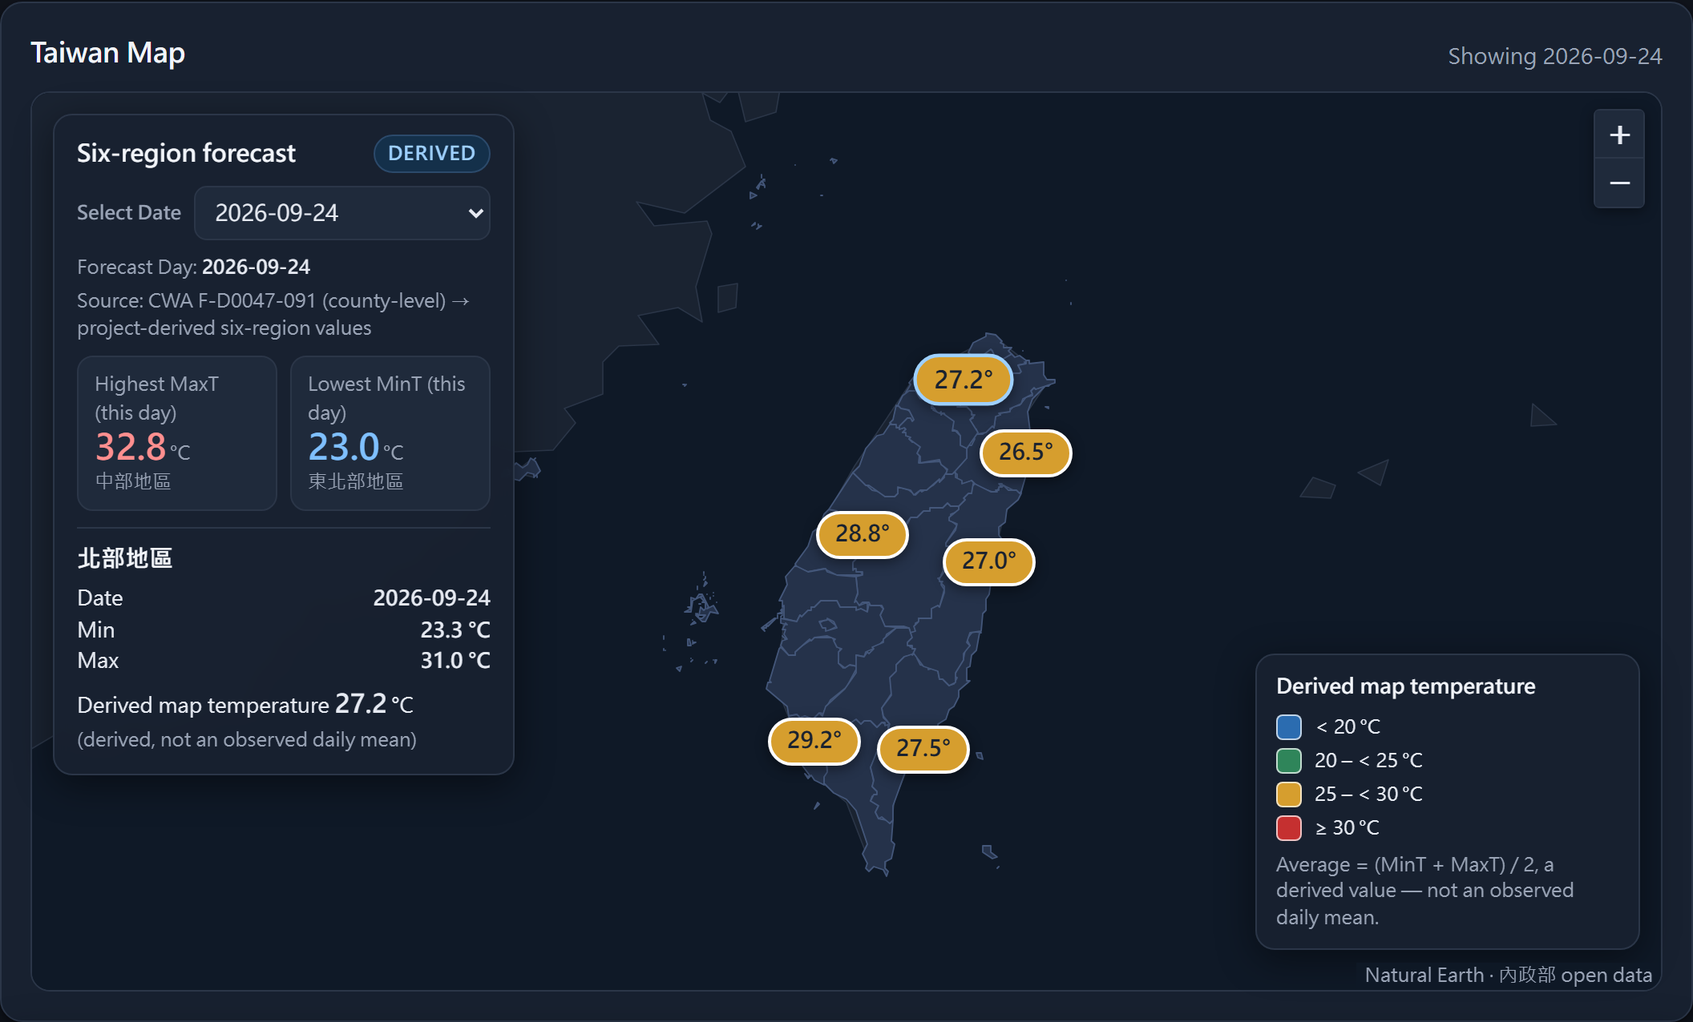
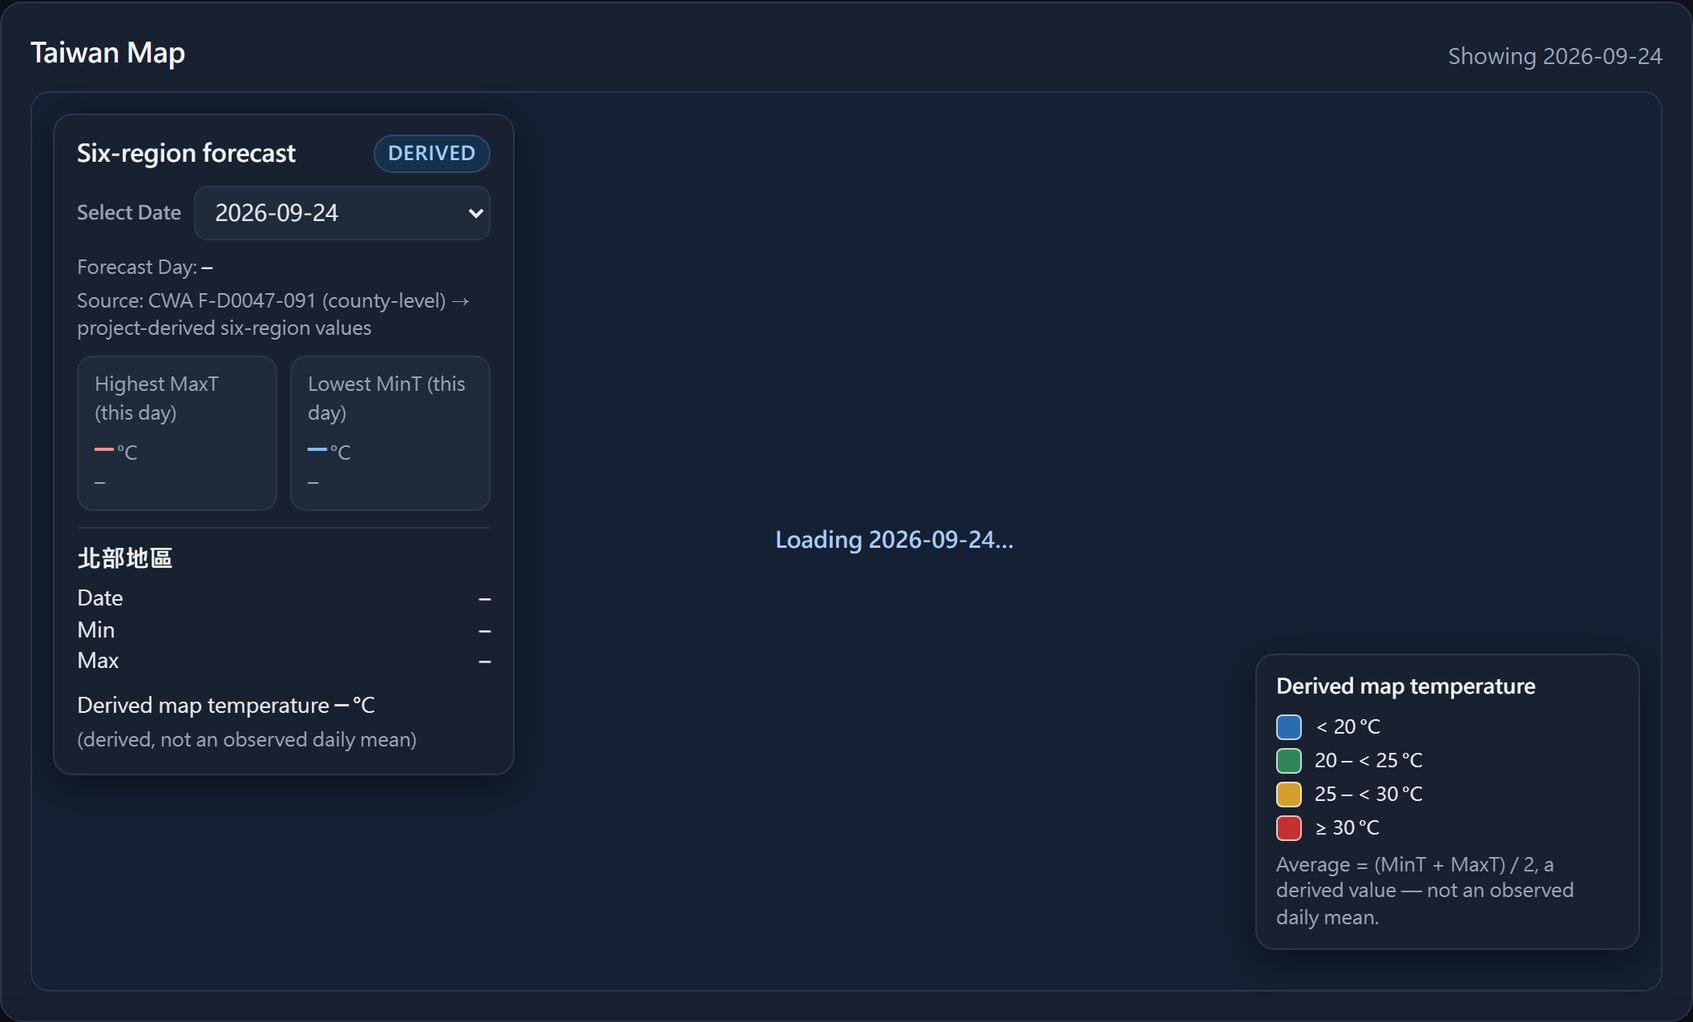
[Modify] – Fix the HW10 #28 map-card A-4 R2 findings: real loading screenshot, resize re-fit only on width change, worklog V-2 label
[Fix]
- doc/acceptance/screenshots/issue-28-state-loading.png: re-capture the genuine DR-19 loading state (inline "Loading <date>…" on the map card, Select Date operable) — the previous file was byte-identical to issue-28-desktop-dark-ac17.png; the new file's md5 is unique across all issue-28 screenshots (#28 R2 N-1)
- static/app.js: re-fit the map on resize only when the width (and thus the floating>=1180 / stacked layout and reserved padding) changes; a height-only resize now just invalidateSize() and preserves the user's zoom/pan (#28 R2 N-2)

[Modification]
- doc/governance/worklog/20260924-taiwan-map-rework.md: correct the V-2 table state labels (hover/focus/selected border is #9ed0ff, default is #fff; numbers unchanged, V-2 PASS under DR-21.1 unchanged) and add the "Targeted correction (cycle 2)" section (#28 R2 N-3)

[Additions]
- doc/governance/audit/issue-28-c1-r2.md: the Primary Reviewer's A-4 R2 closure-review record (record-only; committed as authored)

diff --git a/home_work_01/static/app.js b/home_work_01/static/app.js
@@ -94,6 +94,7 @@
   var selectedRegion = "北部地區"; // the Region shown in the info panel's selected block
   var latestDay = null;    // {date, byRegion} for the day currently rendered/pending
   var mapInitScheduled = false;
+  var lastFitWidth = null; // window width at the last fit; a height-only resize does not re-fit (#28 R2 N-2)
 
   document.addEventListener("DOMContentLoaded", function () {
     els.pageError = document.getElementById("page-error");
@@ -146,11 +147,20 @@
       if (resizeTimer) clearTimeout(resizeTimer);
       resizeTimer = setTimeout(function () {
         if (currentSeries) renderChart(currentSeries);
-        // Re-fit the map: the panel/legend layout (floating vs stacked) and the
-        // reserved padding change with width, so the six markers must be re-fitted
-        // to stay clear of the panels at the new width (#28 F-1). Only resize
-        // re-fits — a Select Date change never does (P-12).
-        if (map) fitToMarkers();
+        if (map) {
+          if (window.innerWidth !== lastFitWidth) {
+            // The WIDTH changed, so the layout mode (floating >= 1180px vs stacked)
+            // and the reserved padding may differ — re-fit so the markers stay clear
+            // of the panels at the new width (#28 F-1). Only a width change re-fits;
+            // a Select Date change never does (P-12).
+            fitToMarkers();
+          } else {
+            // A height-only change (e.g. a mobile browser toolbar showing/hiding on
+            // scroll): keep Leaflet's size in sync WITHOUT re-fitting, so the user's
+            // zoom/pan is preserved (#28 R2 N-2).
+            map.invalidateSize();
+          }
+        }
       }, 150);
     });
 
@@ -670,6 +680,7 @@
       paddingBottomRight: pad.br,
       maxZoom: 8,
     });
+    lastFitWidth = window.innerWidth; // remember the width this fit was for (#28 R2 N-2)
   }
 
   // A pill was clicked/activated: reflect the selection in the panel and pills.

diff --git a/home_work_01/doc/governance/audit/issue-28-c1-r2.md b/home_work_01/doc/governance/audit/issue-28-c1-r2.md
@@ -1,0 +1,173 @@
+# Audit record — Issue #28，cycle 1，R2（A-4 independent audit，scoped closure review）
+
+| 欄位 | 內容 |
+| --- | --- |
+| Work Contract | GitHub Issue **#28**（Taiwan Map 視覺重做，post-baseline enhancement，Lightweight）。Outcome Contract＝acceptor 2026-09-24 直接指示（DR-20 §0）。Governing decisions：**DR-20** `decision-20260924-taiwan-map-rework.md`；**DR-21** `decision-20260924-map-rework-rs1-rs2.md`（DR-21.1 RS-1 → V-2 的操作規則 OR-V2；DR-21.2 RS-2 → masthead 導言一句在 boundary 內）。不變契約同 R1（Spec v1.1 R-EN-1..7、R-SHR-4、INV-1/2/5/6/7/9、AC-04(b)/14(6)/17/18/19/20/21/27/28；DR-19；H-2、H-3、A-1、A-4）。 |
+| 受審 subject | branch `home_work_01-hw10-implementation`；correction subject **`ecdc793597f4f42251ca4ae0dc7c1c59ab580f2a`**；HEAD `e128ac9`（＝`git ls-remote origin`；`git diff --stat ecdc793..e128ac9` 只有 worklog，record-only）。R1 subject `b4549e5`。本次 delta：`git diff b4549e5..ecdc793`，排除 `doc/**` 後只有 `static/app.js`、`static/styles.css`、`tests/test_map_frontend.py`（M）；另有 `doc/acceptance/ACCEPTANCE.md`、`doc/ticket/tickets.md`、15 張 `doc/acceptance/screenshots/issue-28-*.png`（3 張新增）與 record-only 檔。 |
+| Audit 種類 | **R2**（scoped closure review，治理 §4.4），**cycle 1**。延續本 Reviewer 的 R1 context；修正後的檔案、diff、測試與渲染結果全部從磁碟與本機重新取得。不是第二次全面審查；也不是 Spec Integration Audit。 |
+| 角色 | `primary_reviewer`（`gov-primary-reviewer`；Bindings §3.1 `claude-opus-5-5`／`xhigh`） |
+| Binding 證據 | 由派工者依 Bindings §3.4 核對，記入 run record `home_work_01/doc/governance/run/run-20260924-hw01-formal.md`（本次 #28 R2 dispatch）。 |
+| Independence | (1) 延續 R1 Reviewer context（§2.3 允許），未繼承 Executor context；worklog「Targeted correction（cycle 1）」、ACCEPTANCE.md 與派工訊息的敘述都當作待驗證主張。派工訊息稱 R1 為「BLOCKING (F-1, F-2, F-3, F-4, F-5)」；R1 實際 verdict 是 **BLOCKING (F-1, F-2, F-4, F-5)**，F-3 為 Medium non-blocking，本 R2 照樣核對了 F-3。(2) Binding 見上一列。(3) 自主取得：`git archive ecdc793` 匯出後自行執行測試與 mutation；在本機啟動 server，用自寫的 Playwright-core 腳本驅動 Chrome 153 headless 量測；查詢 GitHub CI 與 deployment API；對 preview 執行 smoke。腳本放在 scratchpad `pw/`（`r2sweep.js`、`r2east.js`、`r2behave.js`、`r2resize.js`），輸出在 `pw/out-r2/`。(4) 本紀錄由 Reviewer 以自己的 Write 工具寫入。另核對：已 commit 的 `audit/issue-28-c1-r1.md` 與 Reviewer 寫入的原檔相同（工作樹 clean），沒有被改寫。 |
+| 日期 | 2026-09-24 |
+
+## 1. 方法與環境
+
+- `git archive ecdc793 home_work_01` 匯出到 scratchpad，沒有 `.env`。執行時 unset `CWA_API_KEY`，並設 `HTTP(S)_PROXY=http://127.0.0.1:9`。使用 repo 的 Python 3.12.14 venv。
+- 本機 server 為匯出 subject 的 `server.app`，在 `127.0.0.1:5077`。瀏覽器量測涵蓋 29 個寬度：360、375、390、414、480、600、640、641、700、768、800、820、834、880、900、960、1023、1024、1100、1179、1180、1181、1200、1280、1366、1440、1600、1920、2560，使用 dark scheme；H-3 另外加 light 375。
+- 遮擋的判定方式：pill 與 tooltip 的 rect 是否和「浮動中的面板／圖例、zoom 控制、attribution control」相交；pill 中心用 `elementFromPoint` 確認是否命中自己；tooltip 另做逐字元（glyph）層級的遮擋檢查；DR-19 狀態訊息用文字 client rects 檢查。
+- 結束時已停止 Reviewer 啟動的 server；`git status` 只有本紀錄檔（新增）。
+
+## 2. R1 findings 逐項核對
+
+### R1 F-1（High，blocking）— **RESOLVED**
+
+- **修正內容**：非浮動（堆疊）版面的 breakpoint 由 `max-width:640px` 提高到 **`max-width:1179px`**（`styles.css:649-661`）。1179px 以下，資訊面板在地圖上方、圖例在地圖下方，都是 `position:static`。1180px 以上才浮動，並由 `fitToMarkers()` 依寬度預留面板與圖例的 padding（`app.js:658-673`：`[392,64]`／`[300,56]`）。
+- **驗證**（`r2sweep.js`）：29 個寬度全部符合下列各點。
+  - 六個 pill 都在 `#map-frame` 內，不與任何 overlay 相交，pill 中心 `elementFromPoint` 都命中自己。
+  - 641–1179 皆為 `float=false`（堆疊），1180 起為 `float=true`；地圖高度 360（≤640）、440（641–1023）、560（≥1024）。
+  - `scrollWidth` 等於視窗寬度。
+  - 截圖 `out-r2/w1180.png`：1180px 浮動版面下，六個 pill 都在面板與圖例之外。
+  - resize 跨越 1180 breakpoint（1100→1280→900→1440→1179→1180）後，每一步都沒有 pill 被遮或裁切（`r2behave.js` resize seq）。
+- **R1 closure 條件**：641–1023（實測 641／700／768／800／820／834／880／900／960／1023）沒有 pill 被遮，且皆可點；tablet 寬度下的 DR-19 狀態訊息也沒有被遮。**全部達成。**
+
+### R1 F-2（Medium，blocking）— **RESOLVED**
+
+- **驗證**：29 個寬度下，六個 tooltip 的 box 都在 frame 內，也不與面板、圖例、attribution 相交。1024 與 1100 改為堆疊版面，面板不再蓋住 tooltip；1180 起的浮動版面有 padding 預留。
+- 唯一重疊是 375／390／360 時，東部 tooltip 右上角 padding 與 zoom 控制重疊。逐字元檢查（`r2east.js`，DPR 3）壓在 zoom 控制下的字元為空字串，文字完整可見（截圖 `out-r2/east-375.png`）。
+- Executor 提交的 `issue-28-desktop-1024-hover-south.png` 與本機渲染一致，可看到「南部地區」全名。
+- **V-3 在 375 與桌機（≥1024）成立。** ACCEPTANCE §6 對 #24 F-5(a) 的敘述已更正。
+
+### R1 F-3（Medium，non-blocking）— **RESOLVED**
+
+- 以伺服器實際的長 error 訊息測 error，另測 empty 與 loading（延遲 6s），29 個寬度皆如下：
+  - 狀態文字全部在 frame 內，與面板或圖例的交集為 0。
+  - `Select Date` 可見，且中心 `elementFromPoint` 命中自己。
+- 浮動寬度下，`.map-status` 的左右 padding（`styles.css:436-441`）讓訊息置中且避開面板（截圖 `out-r2/state-error-1180.png`）。
+
+### R1 F-4（Medium，blocking）— **RESOLVED**
+
+- **修正內容**：
+  - `.pill-icon { pointer-events: none !important; }`（`styles.css:552-563`）。computed 值：icon 為 `none`、pill 為 `auto`，360 到 1280 皆同。
+  - click listener 改掛在 `.pill`（`app.js:611`）。
+  - attribution 縮短為 `Natural Earth · 內政部 open data`（`app.js:569-572`）。375 下它是右下角單行（`[152,613,342,630]`），不在任何 pill 的 44×44 區內。
+- **真實點擊**（`r2behave.js`）：在 360、375、390、414、768、1024、1280 下，對每個 pill 點擊以下位置，選到的都是**自己的 Region**，錯選 0 次：
+  - 垂直中線上的左緣 +2、中心、寬度 88% 處、右緣 −2；
+  - 右緣 −3 那一欄的上緣 +2 與下緣 −2。
+  - 以上涵蓋 R1 的失敗情境：375 下點南部 pill 右緣。
+- **44×44 取樣**：7 個寬度 × 6 個 pill 全部 **225／225** 命中自己，沒有命中鄰近 icon box 或 attribution。`::before` hit area 為 54.3×44 px，連同 pill 本體的可點區 ≥ 44×44。
+- **V-4 成立。**
+
+### R1 F-5（Medium，blocking）— **RESOLVED**
+
+- 兩個重寫的測試都限定在函式本體內（`_function_body()` 做括號配對並略過字串與註解，`_strip_comments()` 移除註解；`test_map_frontend.py:40-117, 121-165`）。`test_ensuremapsized_guards_on_nonzero_container_size` 讀 `ensureMapSized` 的本體，`test_fittomarkers_invalidatesize_precedes_fitbounds` 讀 `fitToMarkers` 的本體。
+- **Mutation**（Reviewer 在 ecdc793 匯出副本上自行執行）：
+
+| 突變 | 結果 |
+| --- | --- |
+| (a) `fitToMarkers` 內把 `invalidateSize()` 移到 `fitBounds()` 之後 | `test_fittomarkers_invalidatesize_precedes_fitbounds` **FAILED**，1 failed、10 passed |
+| (b) `if (sized()) { cb(); return; }` 改為 `cb(); return;` | `test_ensuremapsized_guards_on_nonzero_container_size` **FAILED** |
+| (a)+(b) | 2 failed |
+| (c) 保留 guard 字面，但讓 `sized()` 恆回傳 `true` | 仍 **FAILED**（非零尺寸判斷式只留在註解內，被移除註解後找不到） |
+| 未突變 | 全數 PASS |
+
+- 行為面也再驗證一次：`#map-frame` `display:none` 2s，以及 `.map` 高度 0 持續 1.5s。兩種情況下，容器為 0 尺寸時 pill 數為 0；顯示後六個 pill 都在 frame 內，沒有 console error 或 pageerror。
+
+### R1 Low findings 與殘留項
+
+- **F-6 — RESOLVED**：`colourLegend()` 在 DOMContentLoaded 就呼叫（`app.js:157-159`）。29 個寬度的 error、empty、loading 狀態下，四個 swatch 都是不同顏色。
+- **F-8 — RESOLVED**：`keyboard:false`（`app.js:600-603`）。地圖內的 tab stop 只剩 6 個 `.pill`，外層 icon 沒有 `role`。Tab 到 pill 後按 Enter 可正常選取（中部地區）。
+- **F-9 — RESOLVED**：新增 `issue-28-desktop-light-hover-tooltip.png`，頁面背景為淺色（取樣 `(237,240,245)`）。
+- **F-7／F-10／F-11 — 仍存在，依 R1 disposition 不處理**：
+  - F-7：切到失敗日期時，面板仍保留前一天的值。
+  - F-10：面板與表格用兩種數字格式，屬 SHOULD。
+  - F-11：360px 下南部與東北部 tooltip 被容器裁切，在 V-3 的 375 判準之外。
+
+## 3. DR-21 條件核對
+
+- **DR-21.1／OR-V2（V-2）— PASS（DR-21.1）**。Reviewer 用 WCAG 2.x 公式自算：
+
+  | 項目 | 海 `#0f1927` | 台灣陸 `#25324a` | 周邊陸 `#1a2331` |
+  | --- | --- | --- | --- |
+  | 預設白描邊 `#fff` | 17.67 | 12.85 | 15.81 |
+  | 作用態描邊 `#9ed0ff` | 10.87 | 7.91 | 9.72 |
+  | 填色（藍／綠／黃／紅） | 3.26／3.89／7.39／3.23 | 2.37／2.83／5.38／2.35 | 2.92／3.48／6.62／2.89 |
+
+  - 內文對填色為 5.42、4.54、6.68、5.47，全部 ≥ 4.5。
+  - 每一色帶對每一底圖色，「填色或描邊」至少一項 ≥ 3；描邊在四種狀態皆 ≥ 3。
+  - computed style 確認四種狀態的四邊描邊都是 `2px solid`：預設 `rgb(255,255,255)`；hover、focus、選取（含預設被選的北部）為 `rgb(158,208,255)`。
+  - token 未改：`--band-blue #2b6cb0`、`--band-green #2f855a`、`--band-yellow #d69e2e`、`--band-red #c53030`、`--map-sea #0f1927`。diff 沒有觸及 `BAND_COLOURS`、`BAND_TEXT`、底圖 fill 或 border。
+  - worklog 的 V-2 段已依 OR-V2 重寫（三種底圖色 × 填色與描邊、判定寫「PASS（DR-21.1）」、明示只列對海的數字不足以證明）。ACCEPTANCE.md 的 AC-19 列寫明「V-2 = PASS per DR-21.1 / OR-V2」。
+  - 小瑕疵見 N-3。
+- **DR-21.2（masthead 導言）— 條件成立**：
+  - `index.html` 在 `b4549e5..ecdc793` 沒有任何變更，masthead 沒有再被改動（DR-21.2(a)）。
+  - worklog「附帶改動（地圖卡以外）」段補記該句，並引用 DR-21.2，標明是唯一附帶改動（DR-21.2(b)）。
+  - Reviewer 對此 boundary 沒有異議，**RS-2 關閉**；RS-1 依 DR-21.1 關閉。依 DR-20 §3.5 fail-safe，不觸發補充 Spec Integration Audit。
+
+## 4. 不回歸核對與 H-2／H-3（A-1）
+
+- **Diff-scope**：`git diff --name-only b4549e5..ecdc793`，排除 `doc/**` 後只有 `static/app.js`、`static/styles.css`、`tests/test_map_frontend.py`。`index.html`、`static/data/**`、`README.md`、`test_static_checks.py`、`test_dashboard.py`、`app.py`、`server.py`、`weather_query.py`、`api/`、`vercel.json`、`data.db` 都沒有變更（檢查結果 0 行）。INV-2、INV-9 維持，`/api/` 形狀沒有變。
+- **H-2 — HOLDS**：`index.html` 未變，所以 `Taiwan Weather Forecast`、`Select Region`、`Select Date`、`Date`、`MinT`、`MaxT`、`Min`、`Max` 與六個 Region 中文名，都與 R1 §2.5 逐字核對的結果相同。`test_dashboard.py::test_index_page_has_visible_teacher_text` 與 `test_index_has_map_panel_select_date_and_legend` PASS。pill 標籤、tooltip、`aria-label` 的 Region 名仍取自 `REGION_ORDER`。
+- **H-3 — HOLDS**：
+  - 在 1280 dark、375 light、768 dark 三個 context，對七個 Forecast Day 各取 `/api/days/<date>`，與 DOM 逐一比對六個 pill 的文字（`derivedMapTemperature.toFixed(1)+"°"`）、class（`pill pill--<colourBand>`）、`aria-label`、tile max／min 與所選 Region 區塊。共 126 個 pill 比對，**0 筆不符**。
+  - `git grep` 在 `static/app.js` 找不到 `mint + maxt` 或 20／25／30 門檻，前端沒有重算。`test_frontend_does_not_re_derive_or_re_band` PASS。
+  - 標示文字沒有變動：chip、來源句、圖例註記與「(derived …)」都未改。
+- **H-1 — HOLDS**：CI credential scan 綠（見下）。
+- **R-SEC-1／INV-6（零外部請求）— HOLDS**：
+  - 每個 context 載入加 7 次切日共 18 個請求，全部是同源 `http://127.0.0.1:5077`，外部 0。
+  - 29 個寬度的 sweep 外部請求皆為 0。
+  - preview 部署提供的就是 correction 版本：`/static/app.js` 含 `fitToMarkers`，`/static/styles.css` 含 `pointer-events: none !important`。
+- **P-12 — HOLDS**：使用者先放大地圖，再切換 7 天日期，map pane 與六個 marker 的 transform 完全不變，視野沒有重設；`fitBounds(` 全檔只有一處。這項檢查在三個 context 都做過。
+- **DR-19 與 P-7(b) — HOLDS**：對 2026-09-26 模擬 503、network abort、2xx 空值、2xx 非 JSON，都顯示對應的 inline 狀態，`Select Date` 可見且未停用；改選 2026-09-27 後恢復正常。
+- **#24 F-3（亂序回應）— HOLDS**：2026-09-25 延遲 2.5s 後改選 2026-09-28，最後畫面仍是 2026-09-28，北部為 28.4°，等於 endpoint 值。
+- **#24 F-1**：tooltip 與所選區塊在切換日期時更新的相關程式碼（`bindOrUpdateTip`、`renderDay`、`updateSelectedBlock`）在本次 diff 中未改動；它們只改由 `refreshMapChrome` 在 `moveend` 呼叫。
+- **測試與 CI**：
+  - 乾淨匯出版本、無網路：**164 passed in 4.29s**。與 `b4549e5` 的 163 個測試相比，少了兩個舊測試名，多了三個新測試（兩個是重寫），沒有刪除其他測試。
+  - CI：`ecdc793` 的 push `35965840014` 與 pull_request `35965842100` 皆 success。log 顯示 checkout `ecdc7935…`、`164 passed in 4.22s`、`credential scan passed: 535 tracked files; no .env tracked …; no CWA-key-format string …`。`e128ac9` 的兩個 run 亦 success。
+- **AC-15（preview）**：deployment `6631867697`（sha `ecdc793`，success）→ `https://aiot-hw01-weather-oqntcs471-nchu-aiot-class.vercel.app`。subject 的 `smoke.py` 結果為 `[2026-09-24T06:58:43Z] SMOKE PASS … (1.1s)`，`GET /` 與 `/api/health` 皆 200。
+
+## 5. 本次修正直接產生或暴露的新 findings
+
+### N-1 — Medium — **blocking**：AC-19 的 loading 狀態截圖在修正後被換成已載入完成的地圖
+
+- **證據**：
+  - `md5sum doc/acceptance/screenshots/issue-28-*.png` 顯示 `issue-28-state-loading.png` 與 `issue-28-desktop-dark-ac17.png` 的 md5 都是 **`45ceda3aa14644c002027c3379d669ad`**，兩者 byte 完全相同。
+  - 打開該檔可見完整渲染的地圖：六個 pill、面板有值、Forecast Day 為 2026-09-24，沒有任何 loading 狀態。
+  - `b4549e5` 版的同名檔 md5 為 `a7544ad0…`，是真正的 loading 截圖。所以這是本次 correction 重拍時造成的回歸。
+  - `ACCEPTANCE.md` 的 AC-19 列把 `issue-28-state-loading.png` 列為 loading 狀態的截圖；worklog「重拍的截圖」也列出 `issue-28-state-error/empty/loading`。
+  - 產品行為本身沒有問題：Reviewer 自己在 29 個寬度量測 loading 狀態，都能正常呈現。
+- **契約**：
+  - Spec **AC-19** 的證據要求「loading／empty／error 三種狀態各一張截圖」；DR-20 §3.5(A)-3 與 DR-20.6(4) 都要求 AC-19 重驗。
+  - `ACCEPTANCE.md` 是交付物（R-DOC-4），不是 record-only 路徑。
+  - 在交付的驗收文件中引用不是 loading 狀態的截圖作為 loading 證據，等於 AC-19 的證據不成立；治理 §4.5 也禁止虛報 verification。
+- **Closure 條件**：
+  - 以 `ecdc793` 或其後的 subject 重拍一張真正的 loading 狀態截圖，畫面要看得到地圖卡的 inline loading 訊息，且 `Select Date` 可見。
+  - 重拍後的檔案 md5 不得與其他截圖相同。
+  - ACCEPTANCE.md 與 worklog 的引用要和實際檔案一致。
+  - 不需要修改任何實作。
+
+### N-2 — Medium — non-blocking：只改變視窗高度也會重新 fit，使用者的縮放被重設
+
+- **證據**（`r2resize.js`）：
+  - 375×812：放大後北部與南部 pill 的距離由 245px 變為 490px；只把視窗高度改為 740，距離回到 **245**，縮放被重設。
+  - 1280×900 改為 1280×820：結果相同。
+  - 切換 `Select Date` 則**不會**重設（490 維持 490）。
+  - 原因：resize handler 由 `map.invalidateSize()` 改為 `fitToMarkers()`（`app.js:146-154`），任何 `resize` 事件都會重新 fit，包括只有高度改變的情況。
+  - 行動瀏覽器在捲動時工具列收合或展開，常會觸發只改變高度的 `resize`。結果是：在 375px 放大地圖後，往上捲去看面板，縮放就會被還原。
+- **契約影響**：R-EN-4／AC-17「可縮放」仍成立；P-12 只規定切換 Select Date 不得重設視野，這點成立。沒有契約條款被違反，但這是修正本身引入的行動裝置可用性退步。
+- **Disposition**：owner＝Executor。建議只在寬度改變或堆疊／浮動版面切換時才重新 fit。可在處理 N-1 時一併修，不延長 cycle。
+- **附記（未驗證，不列為 finding）**：JS 用 `window.innerWidth >= 1180` 判斷，CSS 用 `max-width:1179px`，兩者在整數寬度下一致；若瀏覽器縮放產生 1179 到 1180 之間的小數寬度，兩者可能不一致。可考慮改用 `matchMedia('(min-width:1180px)')`。
+
+### N-3 — Low — non-blocking：worklog V-2 表格把 hover 狀態放在錯誤的描邊欄
+
+- **證據**：worklog 的 OR-V2 表把 hover 歸在「描邊 #fff（預設/hover）」欄。實際 hover 的 computed 描邊是 `rgb(158,208,255)`（`#9ed0ff`，`styles.css` 的 `.pill-icon:hover .pill`）；同一份 worklog 的「DR-21 記錄修正」段也寫 hover 為 `#9ed0ff`。
+- 兩種描邊對三個底圖色都 ≥ 3，V-2 結論不受影響。
+- **Disposition**：owner＝Executor，修 N-1 時順手更正措辭。
+
+## 6. 結論
+
+- R1 的 blocking findings **F-1、F-2、F-4、F-5 全部已解決**；F-3、F-6、F-8、F-9 已解決；RS-1、RS-2 已依 DR-21 關閉，V-2 依 OR-V2 為 PASS。
+- 契約不回歸：H-2、H-3（七日 parity、前端不重算）、INV-2／INV-9、零外部請求、P-12、DR-19、#24 F-3、測試 164 passed 與 CI 皆成立。
+- 本次修正直接產生一個 blocking 的證據缺陷 **N-1**：AC-19 的 loading 截圖不是 loading 狀態，與 AC-17 截圖 byte 相同。依治理 §4.4，R2 仍有 blocking，下一步是 exactly one Alternate Review，不是 R3。N-1 的修正只需重拍截圖並更新引用，不需改實作。
+- N-2、N-3 為 non-blocking，已記錄 owner。
+
+VERDICT: BLOCKING (N-1)
